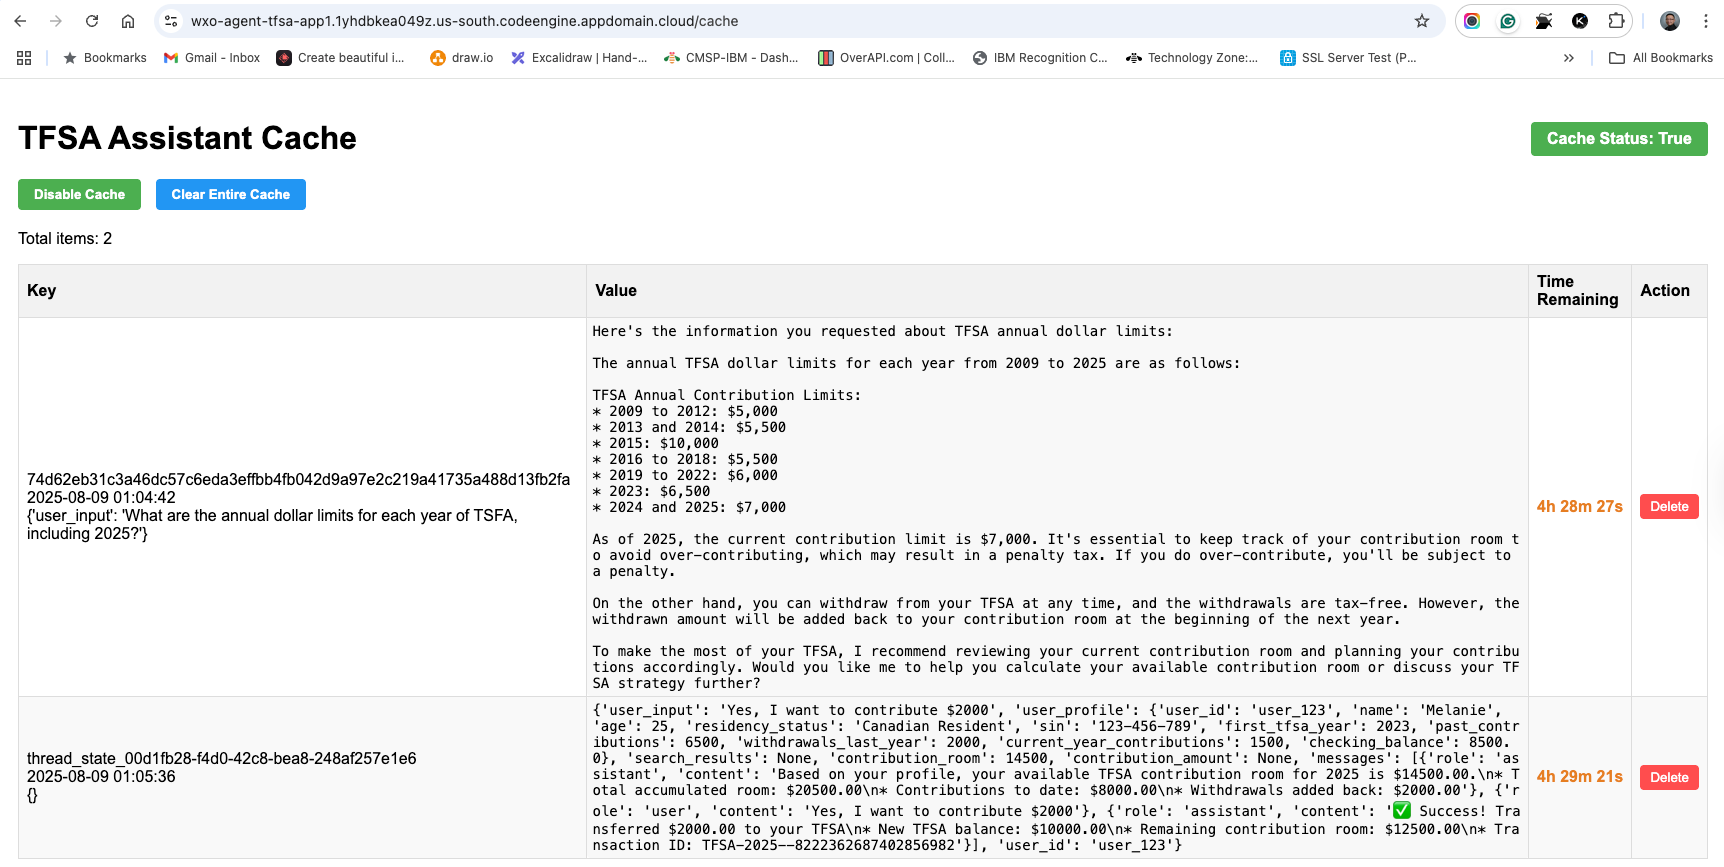
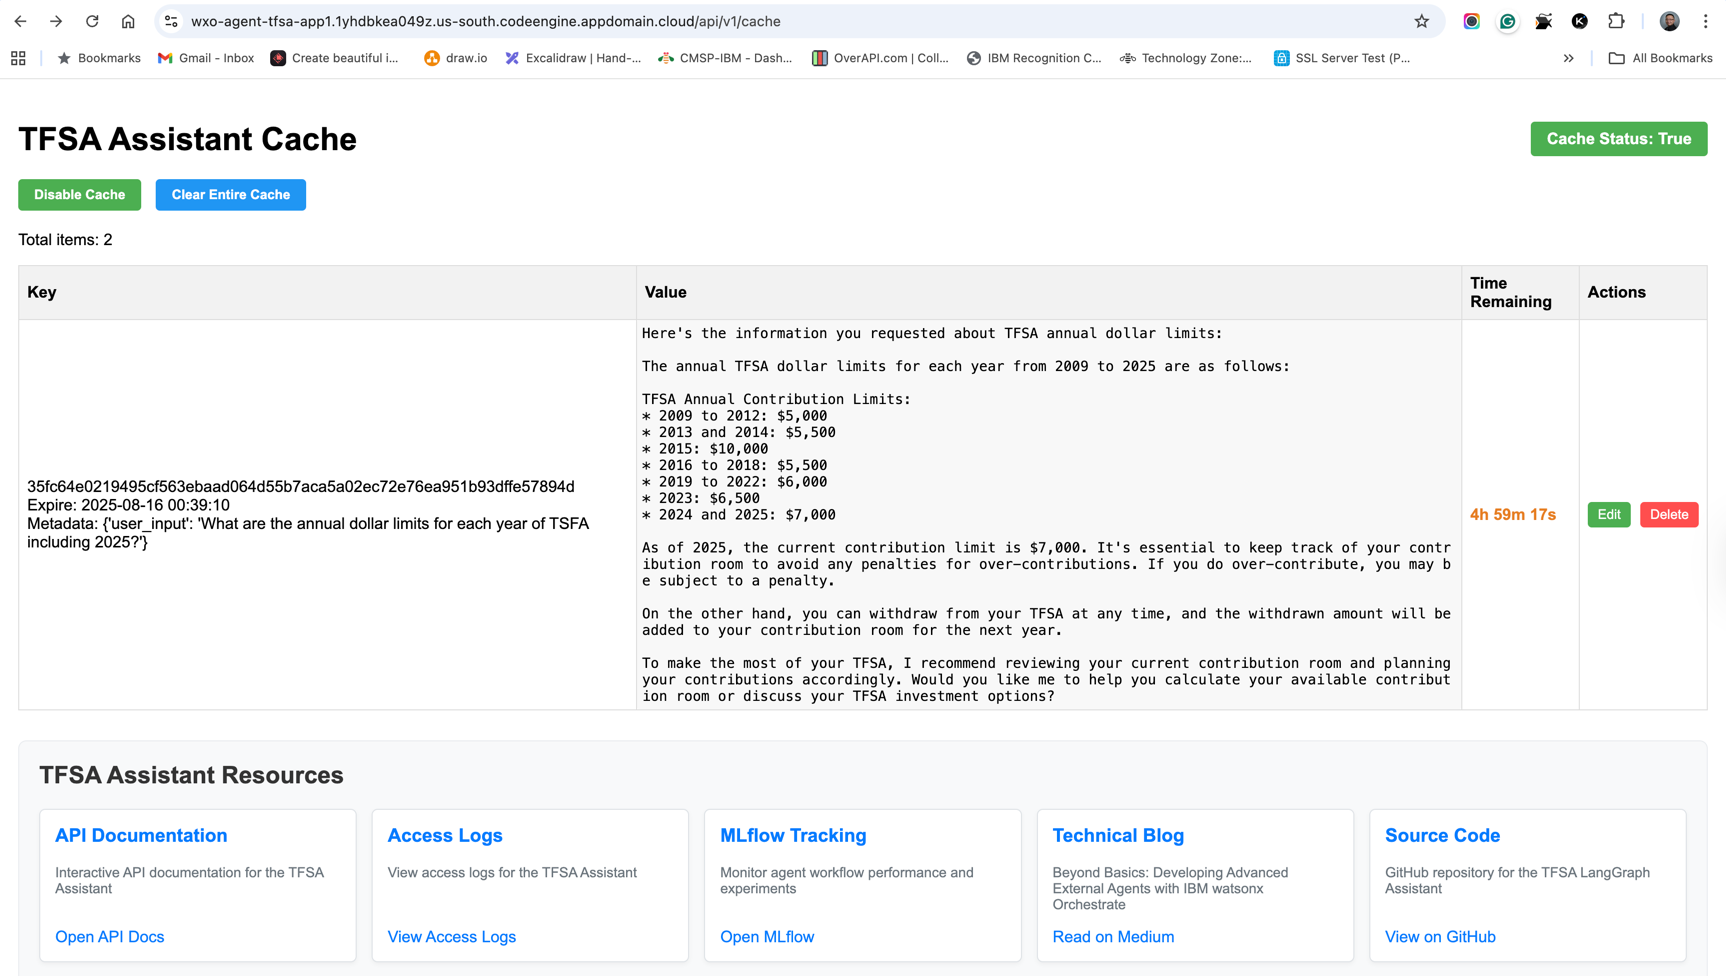
test(langgraph_python): update test client fixture and API documentation
- Rename test_client fixture to tfsa_app_client for clarity
- Update API documentation URL in README.md
- Add new screenshot for MLflow Langgraph Tracing
- Update test functions to use new tfsa_app_client fixture

diff --git a/wxo_adk_external_agent/langgraph_python/tests/app_unit_test.py b/wxo_adk_external_agent/langgraph_python/tests/app_unit_test.py
@@ -11,7 +11,7 @@ from tfsa_assistant_graph import cache
 
 
 @pytest.fixture(scope="module")
-def test_client():
+def tfsa_app_client():
     """
     A pytest fixture to set up the test client.
     This runs once per module, overriding the authentication dependency for all tests.
@@ -27,7 +27,7 @@ def test_client():
     app.dependency_overrides.clear()  # Clean up the override after tests are done
 
 
-def test_non_streaming_request(test_client):
+def test_non_streaming_request(tfsa_app_client):
     """Test a basic non-streaming chat completion request."""
     test_request = {
         "messages": [{"role": "user", "content": "What are the annual dollar limits for each year of TSFA?"}],
@@ -36,7 +36,7 @@ def test_non_streaming_request(test_client):
     headers = {"X-IBM-THREAD-ID": "test_thread_123"}
 
     logger.info("Testing non-streaming request...")
-    response = test_client.post("/api/v1/chat/completions", json=test_request, headers=headers)
+    response = tfsa_app_client.post("/api/v1/chat/completions", json=test_request, headers=headers)
 
     assert response.status_code == 200
     data = response.json()
@@ -46,7 +46,7 @@ def test_non_streaming_request(test_client):
     assert "content" in data["choices"][0]["message"]
 
 
-def test_streaming_request(test_client):
+def test_streaming_request(tfsa_app_client):
     """Test a streaming chat completion request."""
     test_request = {
         "messages": [{"role": "user", "content": "What is my contribution room?"}],
@@ -57,7 +57,7 @@ def test_streaming_request(test_client):
     logger.info("Testing streaming request...")
     reconstructed_message = ""
     full_stream_text = ""
-    with test_client.stream("POST", "/api/v1/chat/completions", json=test_request, headers=headers) as response:
+    with tfsa_app_client.stream("POST", "/api/v1/chat/completions", json=test_request, headers=headers) as response:
         assert response.status_code == 200
         logger.info("Receiving stream...")
         for line in response.iter_lines():
@@ -84,7 +84,7 @@ def test_streaming_request(test_client):
         logger.info("Streaming test successful!")
 
 
-def test_cached_response_and_streaming_simulation(test_client):
+def test_cached_response_and_streaming_simulation(tfsa_app_client):
     """Test that a cached response is served correctly and simulates streaming."""
     user_input = "What are the annual dollar limits for each year of TSFA?"
     test_request = {"messages": [{"role": "user", "content": user_input}]}
@@ -96,15 +96,15 @@ def test_cached_response_and_streaming_simulation(test_client):
 
     # Run a non-streaming request to populate the cache
     logger.info("Testing cached response: First request (populating cache)...")
-    response1 = test_client.post("/api/v1/chat/completions", json={**test_request, "stream": False}, headers=headers)
+    response1 = tfsa_app_client.post("/api/v1/chat/completions", json={**test_request, "stream": False}, headers=headers)
     assert response1.status_code == 200
     assert cache.contains(cache_hash)
 
     # Now, make a streaming request for the same content, which should hit the cache
     logger.info("Testing cached response: Second request (streaming from cache)...")
     streamed_content = ""
-    with test_client.stream("POST", "/api/v1/chat/completions", json={**test_request, "stream": True},
-                            headers=headers) as response2:
+    with tfsa_app_client.stream("POST", "/api/v1/chat/completions", json={**test_request, "stream": True},
+                                headers=headers) as response2:
         assert response2.status_code == 200
         # Verify that we receive a simulated stream by parsing the SSE events
         for line in response2.iter_lines():

diff --git a/wxo_adk_external_agent/langgraph_python/README.md b/wxo_adk_external_agent/langgraph_python/README.md
@@ -11,7 +11,7 @@ For official watsonx Orchestrate Agent Development Kit (ADK) documentation, refe
 This TFSA implementation demonstrates how to deploy an external agent as a serverless application in IBM Cloud. The application leverages 
 [FastAPI](https://fastapi.tiangolo.com) and [LangGraph](https://www.langchain.com/langgraph) to create a chat completion service that integrates with Ollama, Deepseek, IBM watsonx and OpenAI models. It also includes AI tool for TFSA policy search using [Tavily API](https://www.tavily.com).
 
-The API is designed to be used with IBM watsonx Orchestrate, but can be used independently as well. It must have an [OpenAI-compatible Assistants API endpoint](https://wxo-agent-tfsa-app1.1yhdbkea049z.us-south.codeengine.appdomain.cloud/docs/). Endpoints **honour `X-IBM-THREAD-ID`** for multi-turn conversations, **stream via SSE** when `stream=true`. Both stream and non-stream must be implemented.
+The API is designed to be used with IBM watsonx Orchestrate, but can be used independently as well. It must have an [OpenAI-compatible Assistants API endpoint](https://wxo-agent-tfsa-app1.1yhdbkea049z.us-south.codeengine.appdomain.cloud/api/v1/docs/). Endpoints **honour `X-IBM-THREAD-ID`** for multi-turn conversations, **stream via SSE** when `stream=true`. Both stream and non-stream must be implemented.
 
 ## Features
 
@@ -95,7 +95,7 @@ It is recommended to implement your own authentication security measures to ensu
    - Choose **Test application** and click **Application URL**.
      - It is expected this page will not be found, we need to slightly update the path
      - Append `/docs` to the end of the URL path to view a formatted API page.
-       - Example: `https://wxo-agent-tfsa-app1.1yhdbkea049z.us-south.codeengine.appdomain.cloud/docs`
+       - Example: `https://wxo-agent-tfsa-app1.1yhdbkea049z.us-south.codeengine.appdomain.cloud/api/v1/chat/completions`
          - Test API:
            - Sync test
            ```shell
@@ -154,6 +154,7 @@ It is recommended to implement your own authentication security measures to ensu
        ![mlflow LangGraph Tracingl](screenshots/mlflow_langgraph_tracing.png "Example of mlflow Langgraph Tracing")
    - TFSA Chat APIs are integrated with MLflow, which can be viewed in the MLflow UI. We update Dockerfile to expose the MLflow UI.
      - Here is the URL for access:https://wxo-agent-tfsa-app1.1yhdbkea049z.us-south.codeengine.appdomain.cloud/
+     ![Example of mlflow Langgraph Tracing](screenshots/chat_mlflow_langgraph_tracing.png "Example of mlflow Langgraph Tracing")
      
 ### Step 2: Deploy tools linked with the External Agent
 
